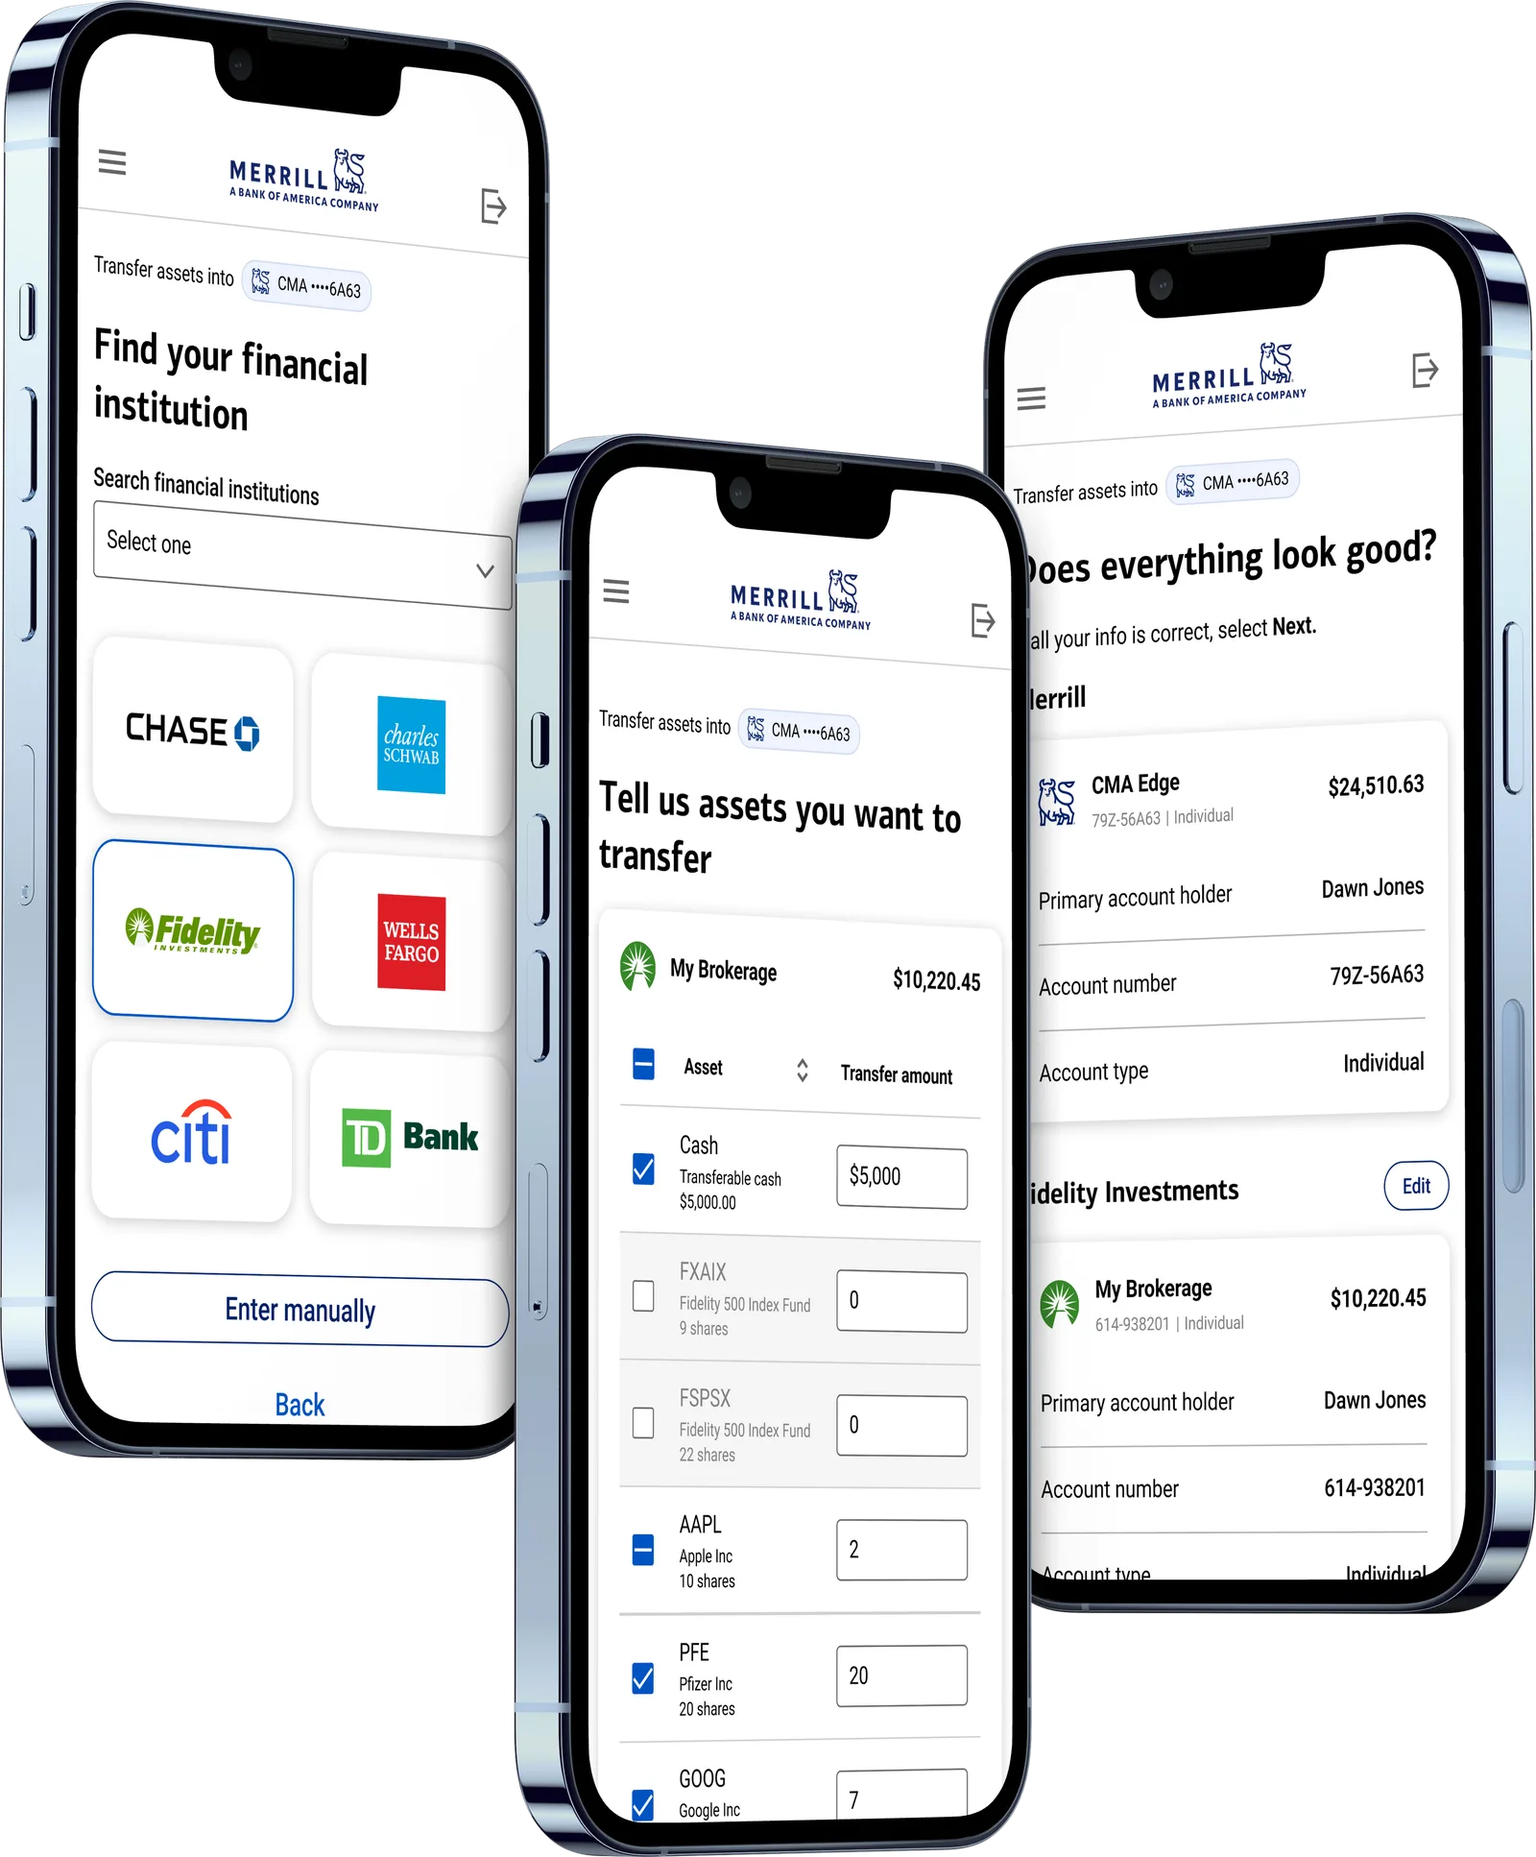
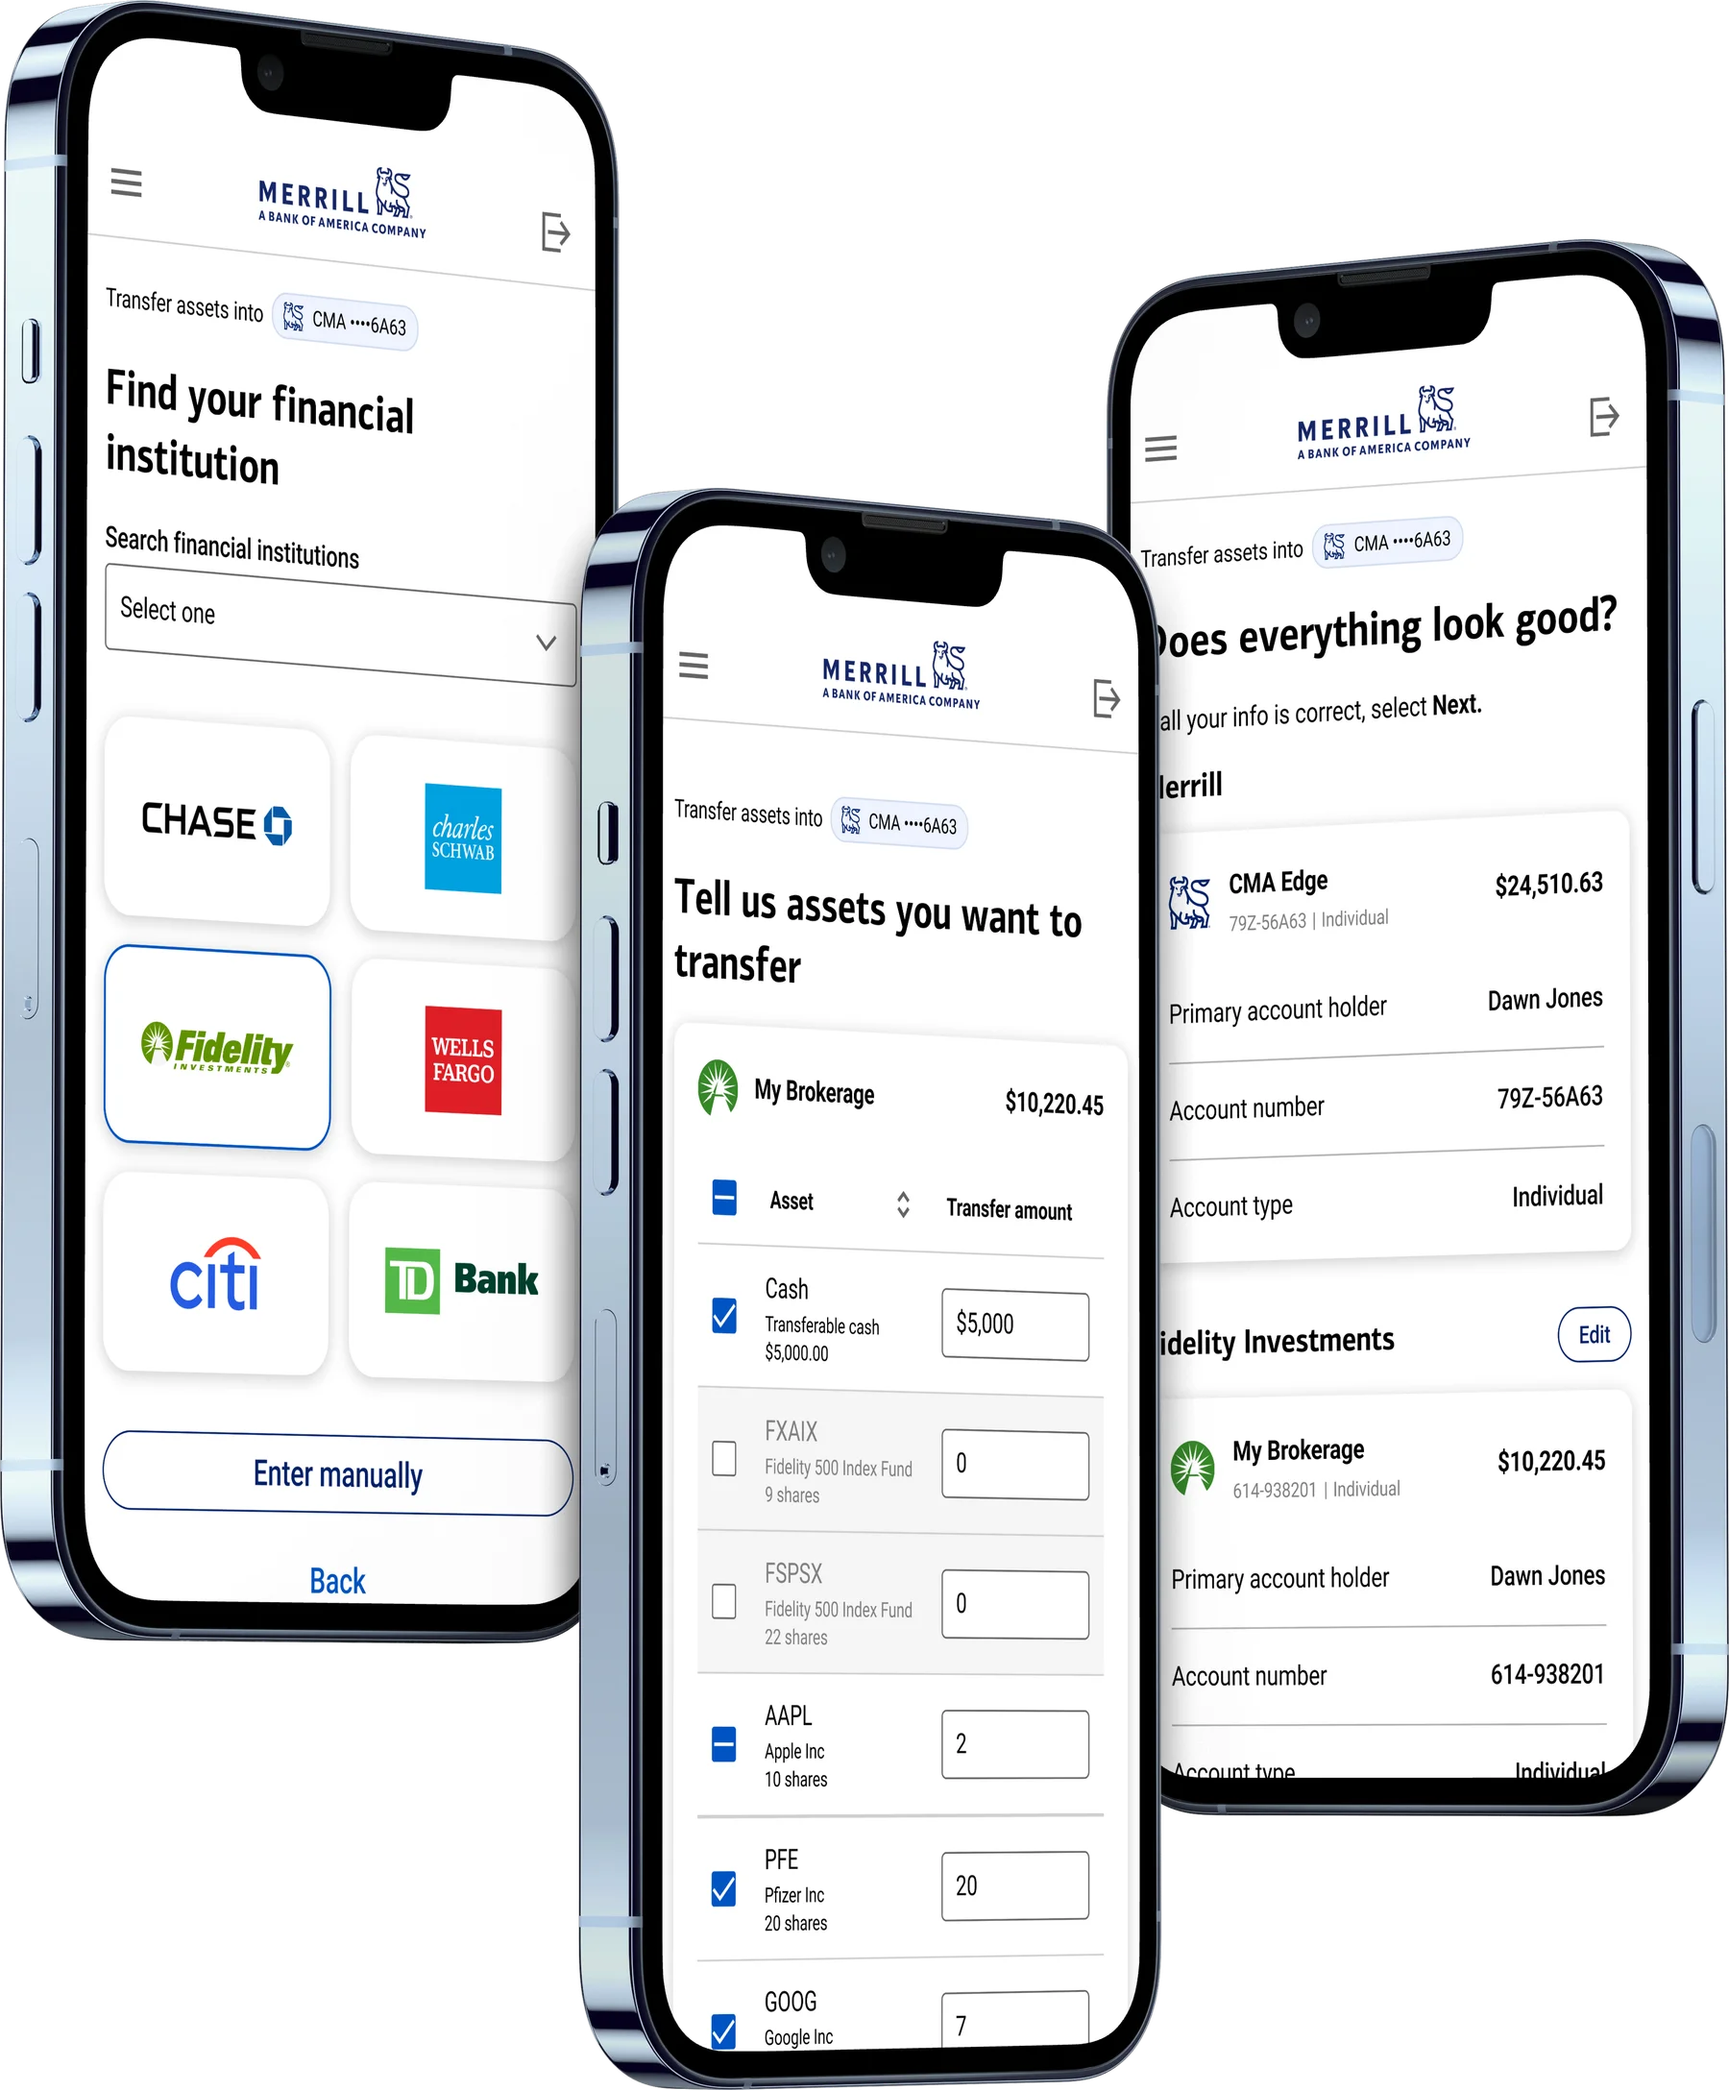
Refactor homepage project previews with surface panel, hover zoom and holographic sheen

diff --git a/lib/content/home.ts b/lib/content/home.ts
@@ -29,7 +29,8 @@ export const home = {
         description:
           "I helped redesign how clients move investments into Merrill, simplifying external account connections, asset selection, and complex transfer requirements into a more manageable digital experience.",
         team: ["Product Design (Lead) • Digital Product • Investment Operations • Engineers • API Tech Team"],
-        background: "/images/home/project-bg-1.webp",
+        background: "/images/home/merrill-bg.webp",
+        mockup: { width: 1800, height: 2176, left: "27%", top: "14%", size: "46%" },
         metricIcons: ["landmark", "wallet"],
         insight: {
           icon: "database",
@@ -54,7 +55,7 @@ export const home = {
           fit: "contain",
           alt: "Three phone screens from the Merrill Edge asset transfer flow: choosing a financial institution, selecting assets, and reviewing the transfer",
           placeholder: "Merrill · Project cover",
-          aspect: "16 / 10",
+          aspect: "3 / 2",
         },
       },
       {
@@ -65,7 +66,8 @@ export const home = {
         description:
           "Following a vendor exit, I helped bring a critical point-of-sale platform in-house, establishing reusable design patterns across payment devices while supporting business continuity for merchants.",
         team: ["Product Design (Lead) • Merchant Services • Product Management • Engineers • Platform Architecture"],
-        background: "/images/home/project-bg-2.webp",
+        background: "/images/home/pos-bg.webp",
+        mockup: { width: 1800, height: 1049, left: "14%", top: "22%", size: "72%" },
         metricIcons: ["credit-card", "store"],
         insight: {
           icon: "blocks",
@@ -90,7 +92,7 @@ export const home = {
           fit: "contain",
           alt: "Three PAX point-of-sale terminals running the Bank of America payment software",
           placeholder: "POS · Project cover",
-          aspect: "16 / 10",
+          aspect: "3 / 2",
         },
       },
       {
@@ -101,7 +103,8 @@ export const home = {
         description:
           "I helped consolidate applications for business checking, credit cards, and payment services into a single experience, balancing simpler onboarding with complex eligibility, risk, and compliance requirements.",
         team: ["Product Design (Lead) · Product Management · Small Business CXO · Risk & KYC • Sales"],
-        background: "/images/home/project-bg-3.webp",
+        background: "/images/home/unified-bg.webp",
+        mockup: { width: 1800, height: 2760, left: "19.5%", top: "20%", size: "61%" },
         metricIcons: ["layers", "briefcase"],
         insight: {
           icon: "workflow",
@@ -126,7 +129,7 @@ export const home = {
           fit: "contain",
           alt: "Business Advantage application flow showing the select products step with credit card options",
           placeholder: "Unified · Project cover",
-          aspect: "16 / 10",
+          aspect: "3 / 2",
         },
       },
     ] satisfies ProjectSummary[],

diff --git a/components/home/work-section.tsx b/components/home/work-section.tsx
@@ -11,7 +11,7 @@ function ProjectCover({ project }: { project: ProjectSummary }) {
       href={project.href}
       aria-label={`View project: ${project.title}`}
       data-cursor="project"
-      className="card-hover group relative block overflow-hidden rounded-lg border bg-surface"
+      className="card-hover group relative block overflow-hidden border"
       style={{ aspectRatio: project.cover.aspect }}
     >
       <Image
@@ -19,21 +19,29 @@ function ProjectCover({ project }: { project: ProjectSummary }) {
         alt=""
         fill
         sizes="(min-width: 768px) 40rem, 100vw"
-        className="object-cover transition-transform duration-700 ease-out motion-safe:group-hover:scale-[1.02]"
+        className="object-cover"
       />
-      {project.cover.src ? (
-        <Image
-          src={project.cover.src}
-          alt={project.cover.alt}
-          fill
-          sizes="(min-width: 768px) 40rem, 100vw"
-          className="object-contain p-6 transition-transform duration-700 ease-out motion-safe:group-hover:-translate-y-1 md:p-10"
-        />
-      ) : (
-        <span className="absolute inset-0 flex items-center justify-center text-caption text-muted">
-          {project.cover.placeholder}
-        </span>
-      )}
+      <div className="project-holo absolute top-[16.6%] right-0 bottom-0 left-[11%] overflow-hidden rounded-tl-3xl bg-surface">
+        {project.cover.src ? (
+          <div
+            className="absolute"
+            style={{ left: project.mockup.left, top: project.mockup.top, width: project.mockup.size }}
+          >
+            <Image
+              src={project.cover.src}
+              alt={project.cover.alt}
+              width={project.mockup.width}
+              height={project.mockup.height}
+              sizes="(min-width: 768px) 30rem, 80vw"
+              className="h-auto w-full transform-gpu transition-transform duration-700 ease-out will-change-transform motion-safe:group-hover:scale-[1.06]"
+            />
+          </div>
+        ) : (
+          <span className="absolute inset-0 flex items-center justify-center text-caption text-muted">
+            {project.cover.placeholder}
+          </span>
+        )}
+      </div>
     </Link>
   )
 }

diff --git a/app/globals.css b/app/globals.css
@@ -101,6 +101,39 @@
   border-color: var(--border);
 }
 
+/* Holographic sheen: an iridescent diagonal band sweeps across the preview panel on hover. */
+.project-holo::after {
+  content: "";
+  position: absolute;
+  inset: 0;
+  pointer-events: none;
+  opacity: 0;
+  mix-blend-mode: color-dodge;
+  background-image: linear-gradient(
+    115deg,
+    transparent 20%,
+    rgba(0, 231, 255, 0.35) 36%,
+    rgba(255, 0, 231, 0.3) 44%,
+    rgba(255, 250, 120, 0.3) 52%,
+    rgba(0, 255, 160, 0.3) 60%,
+    transparent 76%
+  );
+  background-size: 250% 250%;
+  background-position: 100% 100%;
+  background-repeat: no-repeat;
+}
+@media (hover: hover) and (prefers-reduced-motion: no-preference) {
+  .project-holo::after {
+    transition:
+      opacity 400ms ease-out,
+      background-position 900ms ease-out;
+  }
+  .group:hover .project-holo::after {
+    opacity: 0.55;
+    background-position: 0% 0%;
+  }
+}
+
 /* Light cards keep the same surface and border on hover. */
 .light :is(.card-surface, .card-hover, .project-preview-card, .gallery-card),
 .light :is(.card-surface, .card-hover, .project-preview-card, .gallery-card):hover {

diff --git a/lib/content/types.ts b/lib/content/types.ts
@@ -217,4 +217,6 @@ export type ProjectSummary = {
   insight: { icon: ProjectIcon; title: string; body: string }
   cover: MediaSlot
   background: string
+  /** Device mockup size (px) and its placement inside the surface panel, as percentages of the panel. */
+  mockup: { width: number; height: number; left: string; top: string; size: string }
 }
